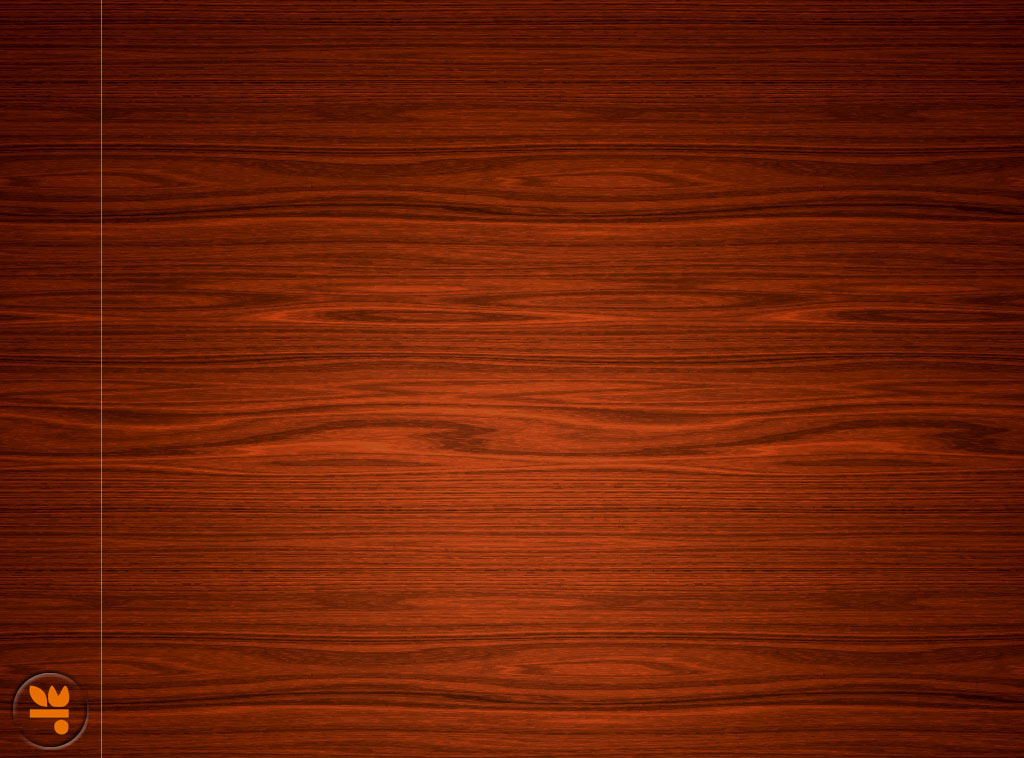
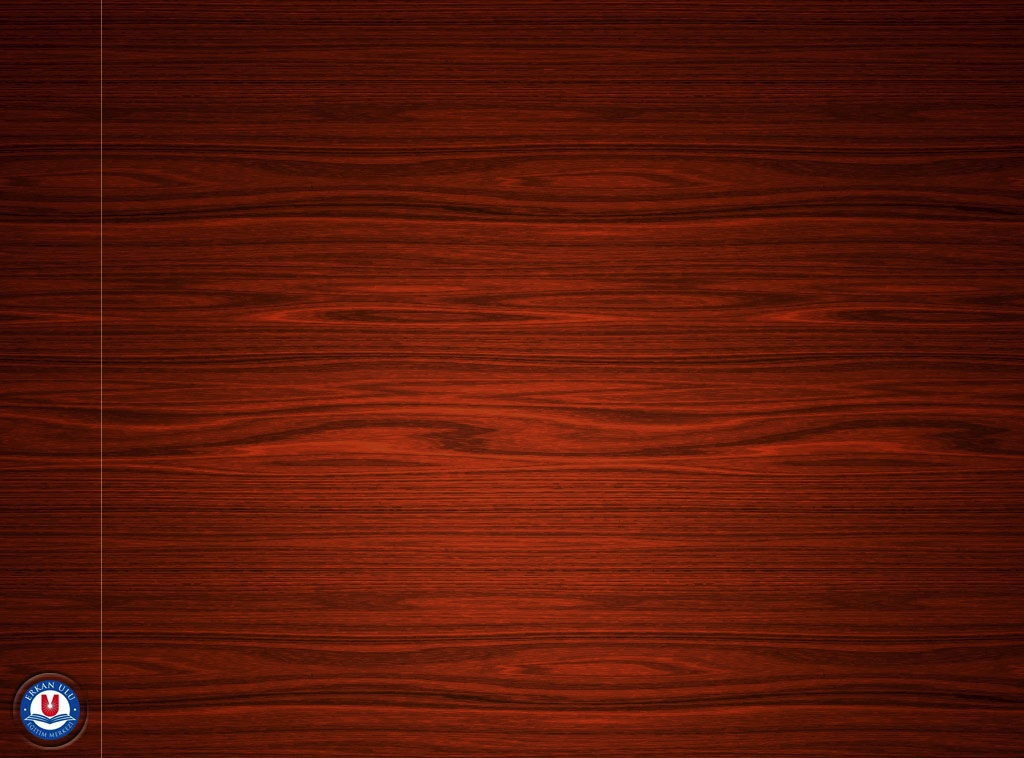
- Logolar düzenlendi.

diff --git a/TEA_iPad/TEA_iPadAppDelegate.m b/TEA_iPad/TEA_iPadAppDelegate.m
@@ -464,7 +464,7 @@ void handleException(NSException *exception)
         notificationMessage.userData = userData;
         [bonjourBrowser sendBonjourMessageToAllClients:notificationMessage];
         
-        [DeviceLog deviceLog:@"appMovedBackground" withLecture:nil withContentType:nil];
+       // [DeviceLog deviceLog:@"appMovedBackground" withLecture:nil withContentType:nil];
     }
 }
 
